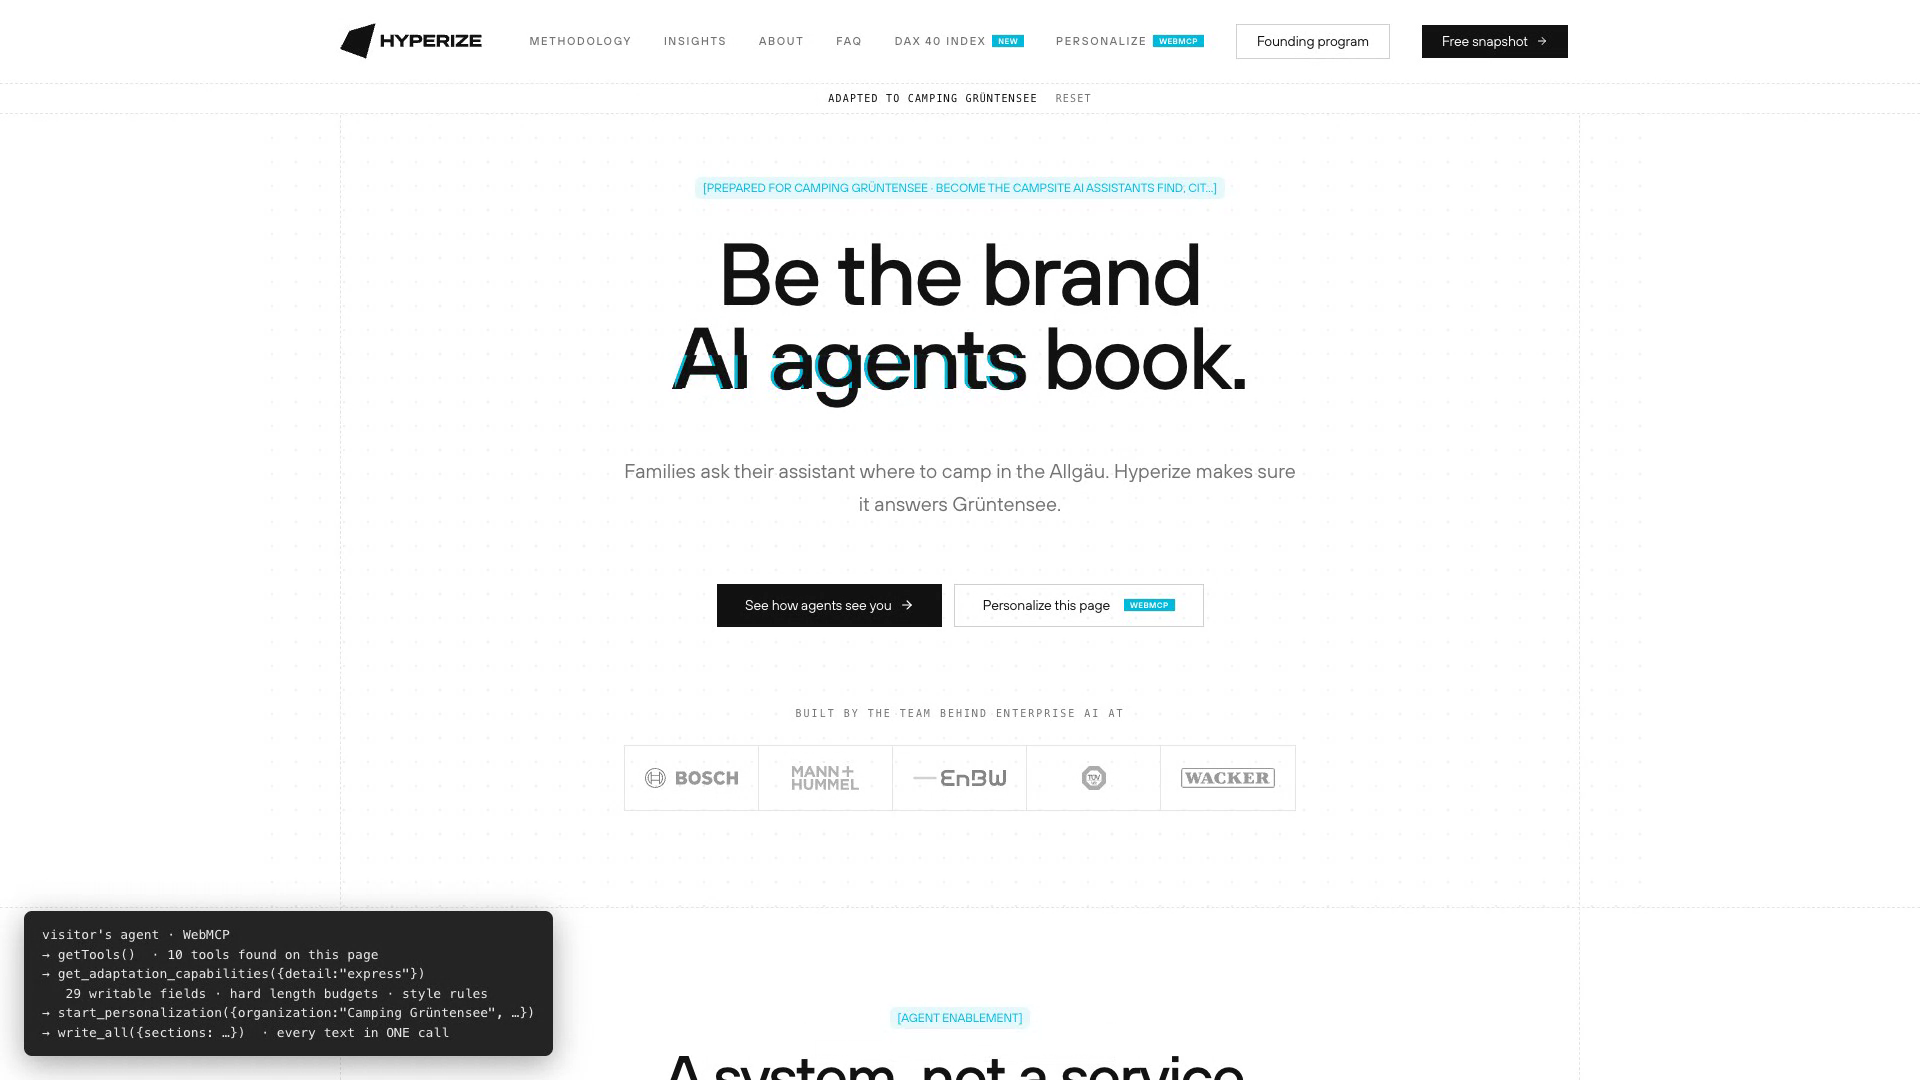
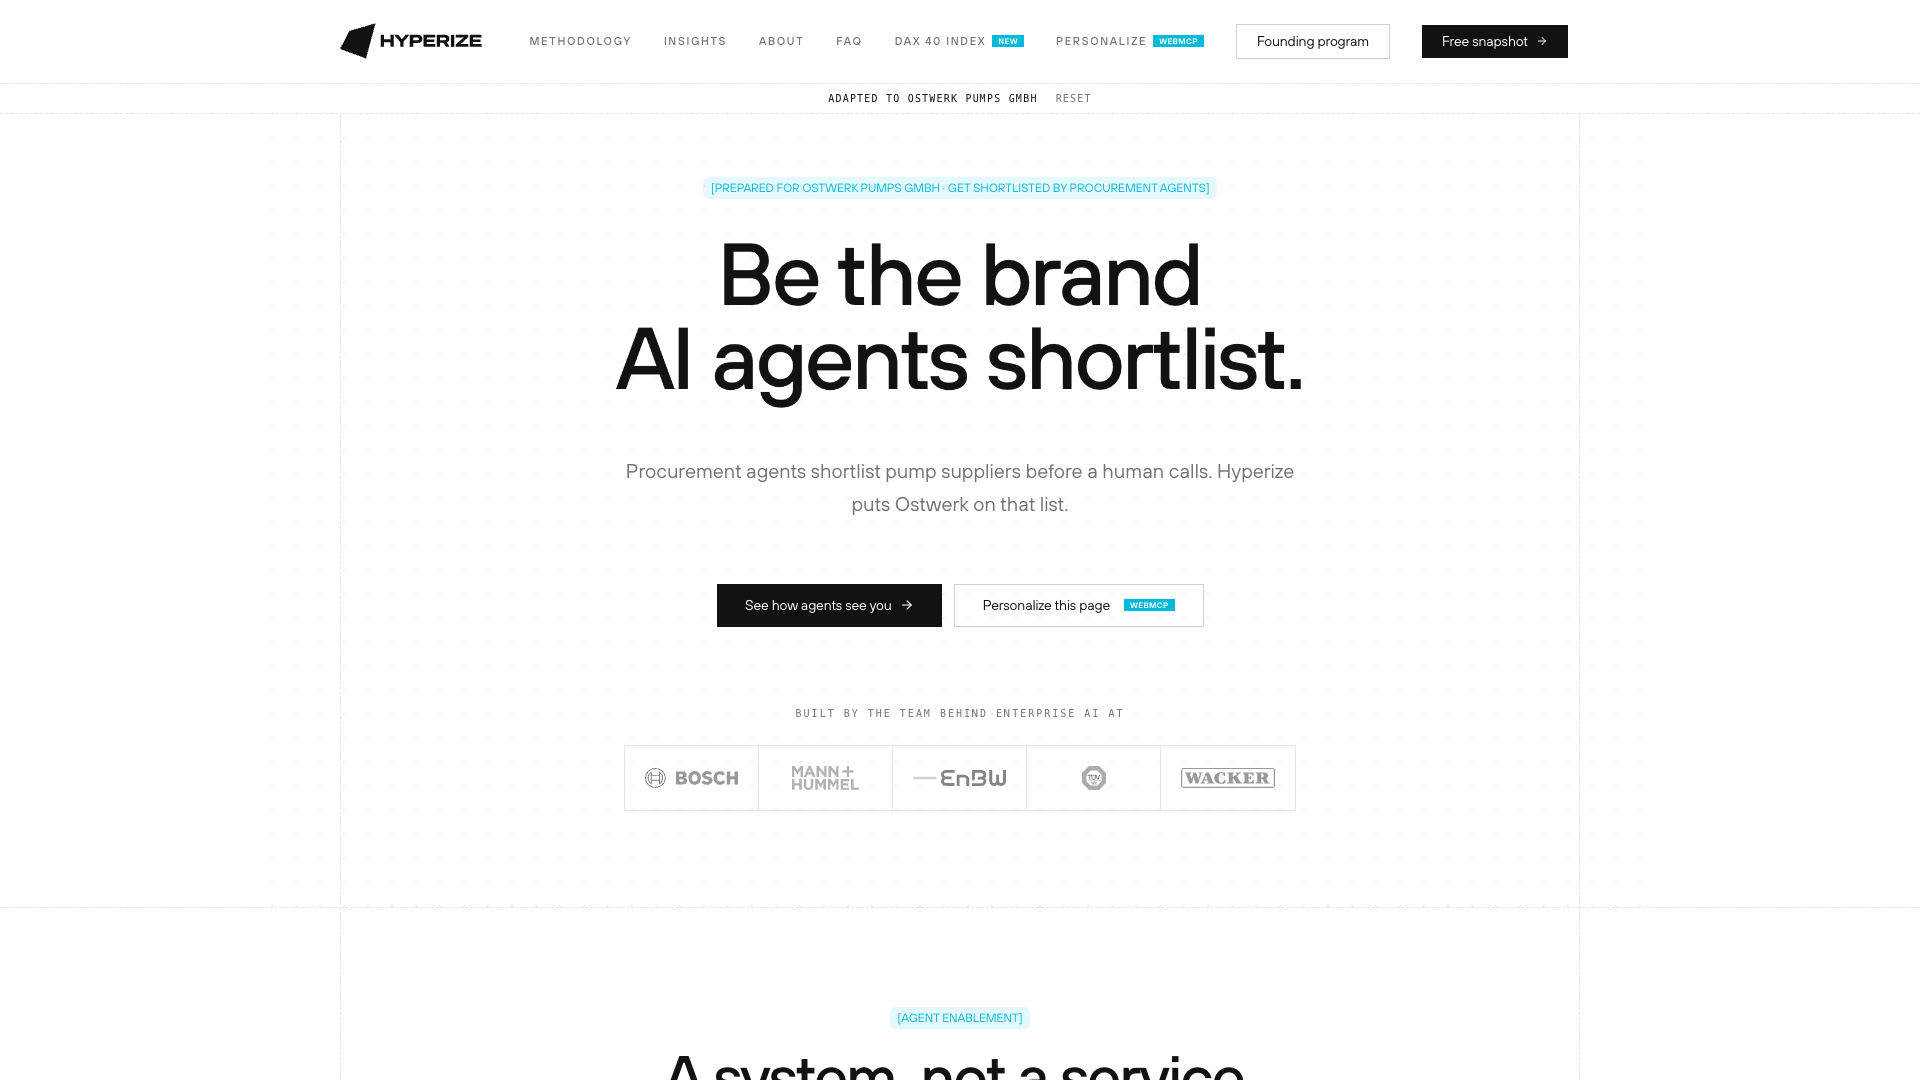
evidence: retake both screenshots live with a fictional profile, no overlays
Native Chrome run against www.hyperize.ai/en with the profile "Ostwerk Pumps
GmbH, industrial pumps, get shortlisted by procurement agents": 29 of 29
express fields accepted, 0 rejected. Plain screenshots of the hero after the
staged reveal and of the open receipt, nothing drawn on top. Replaces the
earlier pair, which carried a real client's name and an illustrated
tool-call overlay that a reader could mistake for a page element.

diff --git a/evidence/PROVENANCE.md b/evidence/PROVENANCE.md
@@ -67,6 +67,13 @@ real test with named assertions, a PASS/FAIL table and a non-zero exit on
 failure, driven by a `package.json` (`npm test` against the live site,
 `npm run test:demo` against the demo on a local static server).
 
+Both screenshots in this folder were retaken on 2026-09-04 from the live site
+in the same native Chrome run, with a fictional visitor profile (Ostwerk Pumps
+GmbH, industrial pumps, "get shortlisted by procurement agents"): all 29
+express fields accepted, 0 rejected. They are plain screenshots, with nothing
+drawn on top, and they replace the earlier pair that carried a real client's
+name and an illustrated tool-call overlay.
+
 ### Machine-readable commit trace
 
 The PR numbers in the table above point to a private repository, so
